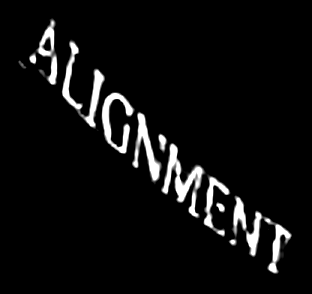
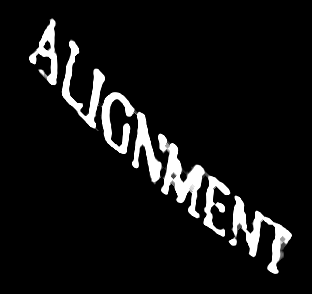
fix(home): gild the carved room names solid, without the marble's cracks
A vein crossing a groove barely darkens it, so the glyph masks went grey or
black there and the lit gold showed the crack. extract.py now boosts alpha
inside the letters, closes hairline gaps (radius under a counter, so A/B/R
keep their holes) and drops specks; masks regenerated, CARVED boxes unchanged.

Changed region(s): [[0.0865, 0.0612, 0.9519, 0.949], [0.0577, 0.2143, 0.0865, 0.2449]]

diff --git a/quartz/static/frieze/extract.py b/quartz/static/frieze/extract.py
@@ -25,6 +25,14 @@ THRESH = 14  # grey levels of darkening that count as groove, not JPEG noise
 PAD = 3  # px of margin around each word's box, so the glow is not clipped
 SCALE = 3  # masks are written at 3x the image, so the gilding stays crisp on a
 # screen that shows the rotunda larger than its 1376px
+CRACK = 2  # px at SCALE: widest vein gap closed inside a letter
+SOLID = 3  # alpha gain: a groove a third as dark as the rest still gilds fully
+SPECK = 400  # px at SCALE: islands smaller than this are noise, not glyphs
+
+
+def disk(r):
+    y, x = np.ogrid[-r : r + 1, -r : r + 1]
+    return x * x + y * y <= r * r
 
 here = Path(__file__).parent
 blank = np.asarray(Image.open(sys.argv[1]).convert("L"), float)
@@ -58,6 +66,16 @@ for word, (ys, xs) in zip(WORDS, boxes):
     up = np.asarray(crop.resize(((x1 - x0) * SCALE, (y1 - y0) * SCALE), Image.BICUBIC))
     # soft ramp around the threshold rather than a hard cut: antialiased edges
     alpha = np.clip((up - (THRESH - 6)) / 16, 0, 1)
+    # a marble vein crossing a groove barely darkens it, so the raw mask goes
+    # grey or black there and the gold shows the crack: solid inside a letter,
+    # soft only at its edge, and hairline gaps closed. The radius stays under
+    # a letter's counter, so A, B, R keep their holes.
+    alpha = np.clip(alpha * SOLID, 0, 1)
+    alpha = ndimage.grey_closing(alpha, footprint=disk(CRACK))
+    # and drop specks that are not part of any letter
+    blobs, n = ndimage.label(alpha > 0)
+    sizes = ndimage.sum(alpha > 0.5, blobs, range(1, n + 1))
+    alpha[np.isin(blobs, np.flatnonzero(sizes < SPECK) + 1)] = 0
     Image.fromarray((alpha * 255).astype("uint8")).save(here / f"{word}.png", optimize=True)
     rows.append(f"    {word}: [{x0}, {y0}, {x1 - x0}, {y1 - y0}],")
 
